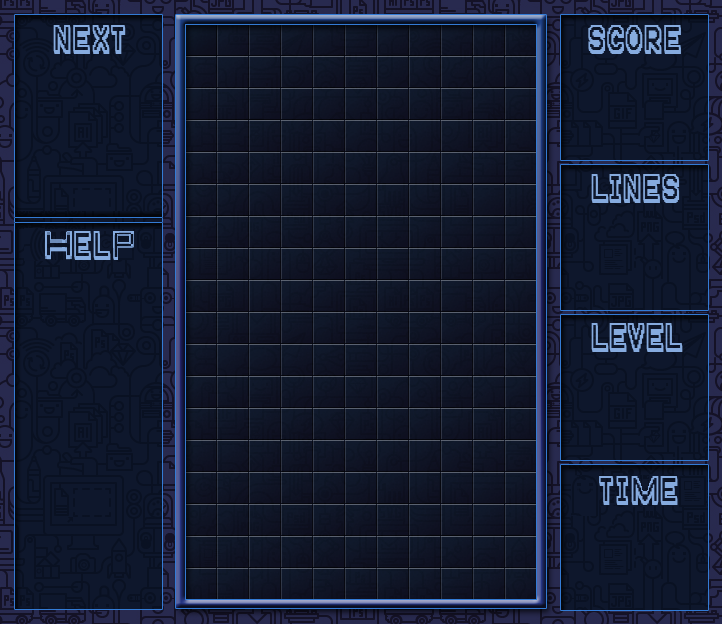
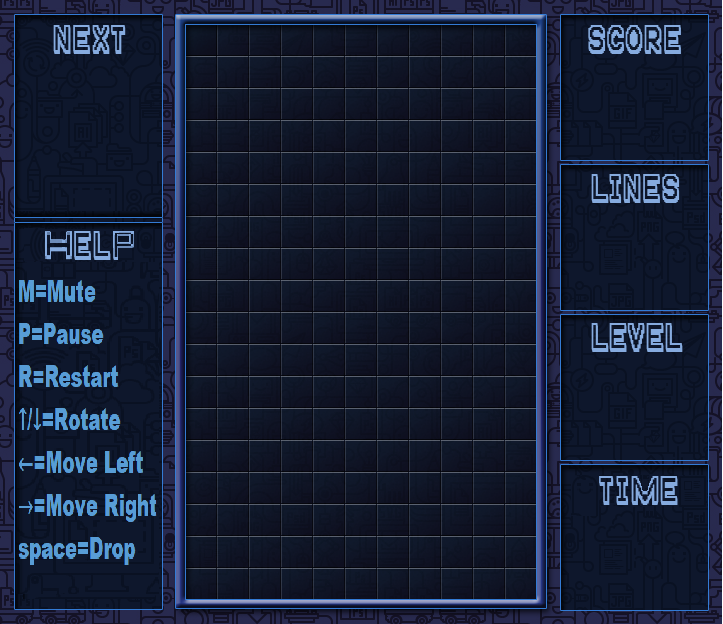
instrucciones y boton de mute

diff --git a/src/EntidadesGraficas/GUI.java b/src/EntidadesGraficas/GUI.java
@@ -17,6 +17,9 @@ import EntidadesLogicas.Logica;
 import java.awt.Font;
 import java.awt.SystemColor;
 import javax.sound.sampled.*;
+import javax.swing.JTextField;
+import javax.swing.JTextPane;
+import javax.swing.DropMode;
 
 public class GUI {
 	
@@ -169,6 +172,14 @@ public class GUI {
 	                	break;
 	                case KeyEvent.VK_R:
 	                	//miLogica.restart();
+	                	break;
+	                case KeyEvent.VK_M:	            
+	                	if(clip.isRunning()) {
+	                		clip.stop();
+	                	}
+	                	else if(!clip.isRunning()){
+	                		clip.start();
+	                	}
 	                	break;
                 }
             }
